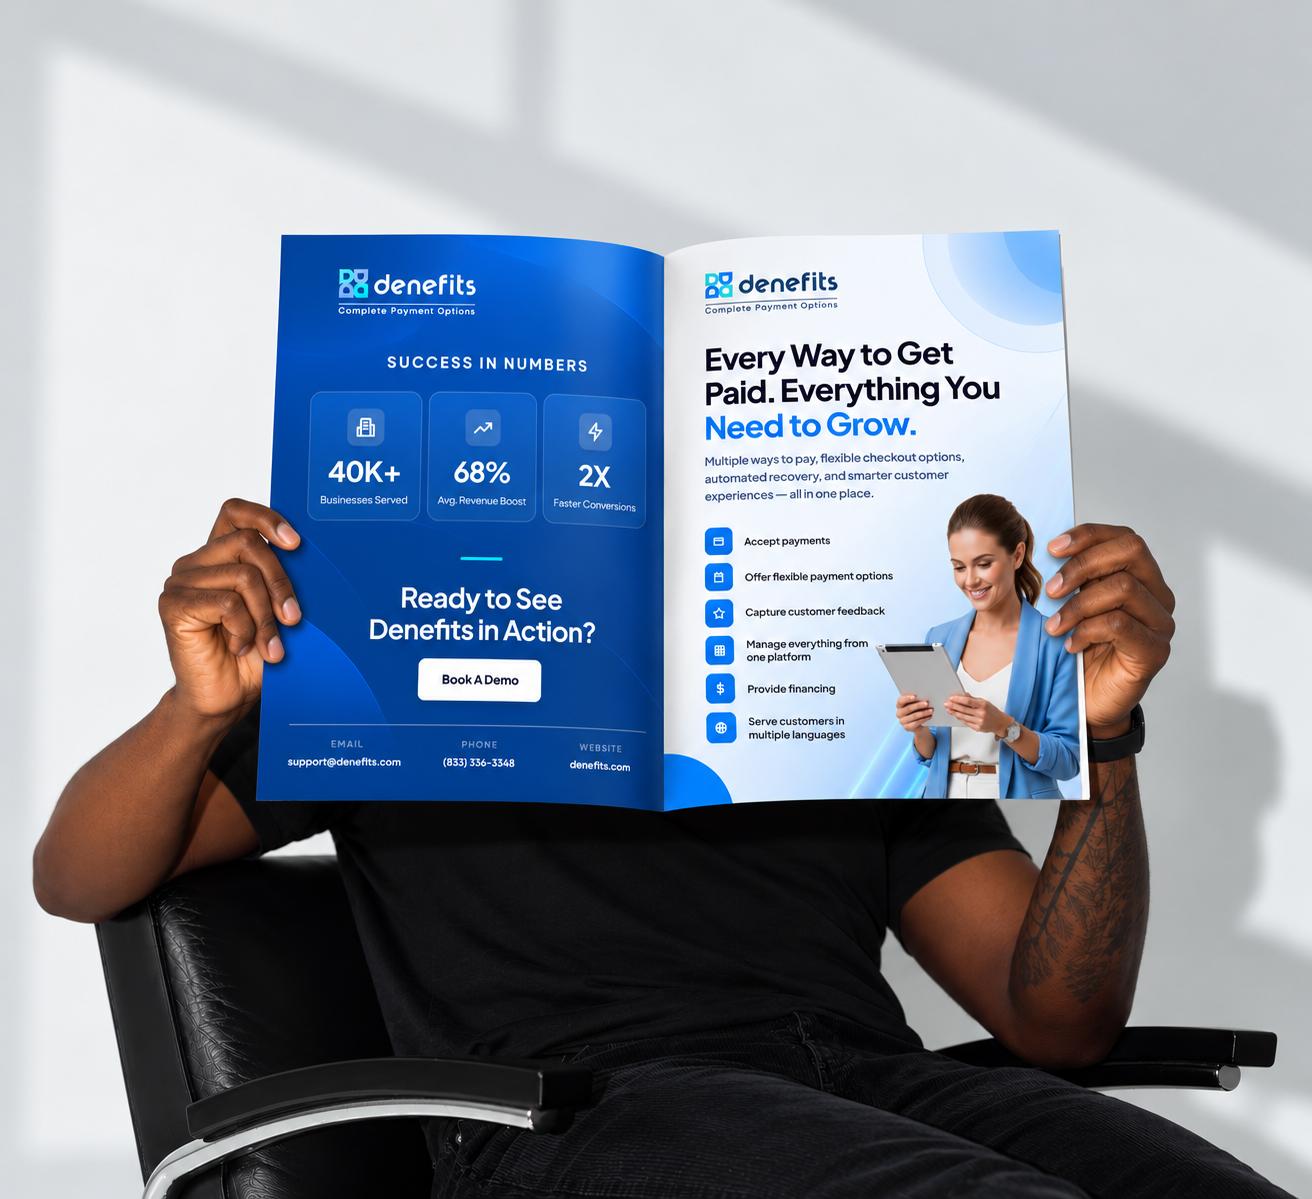
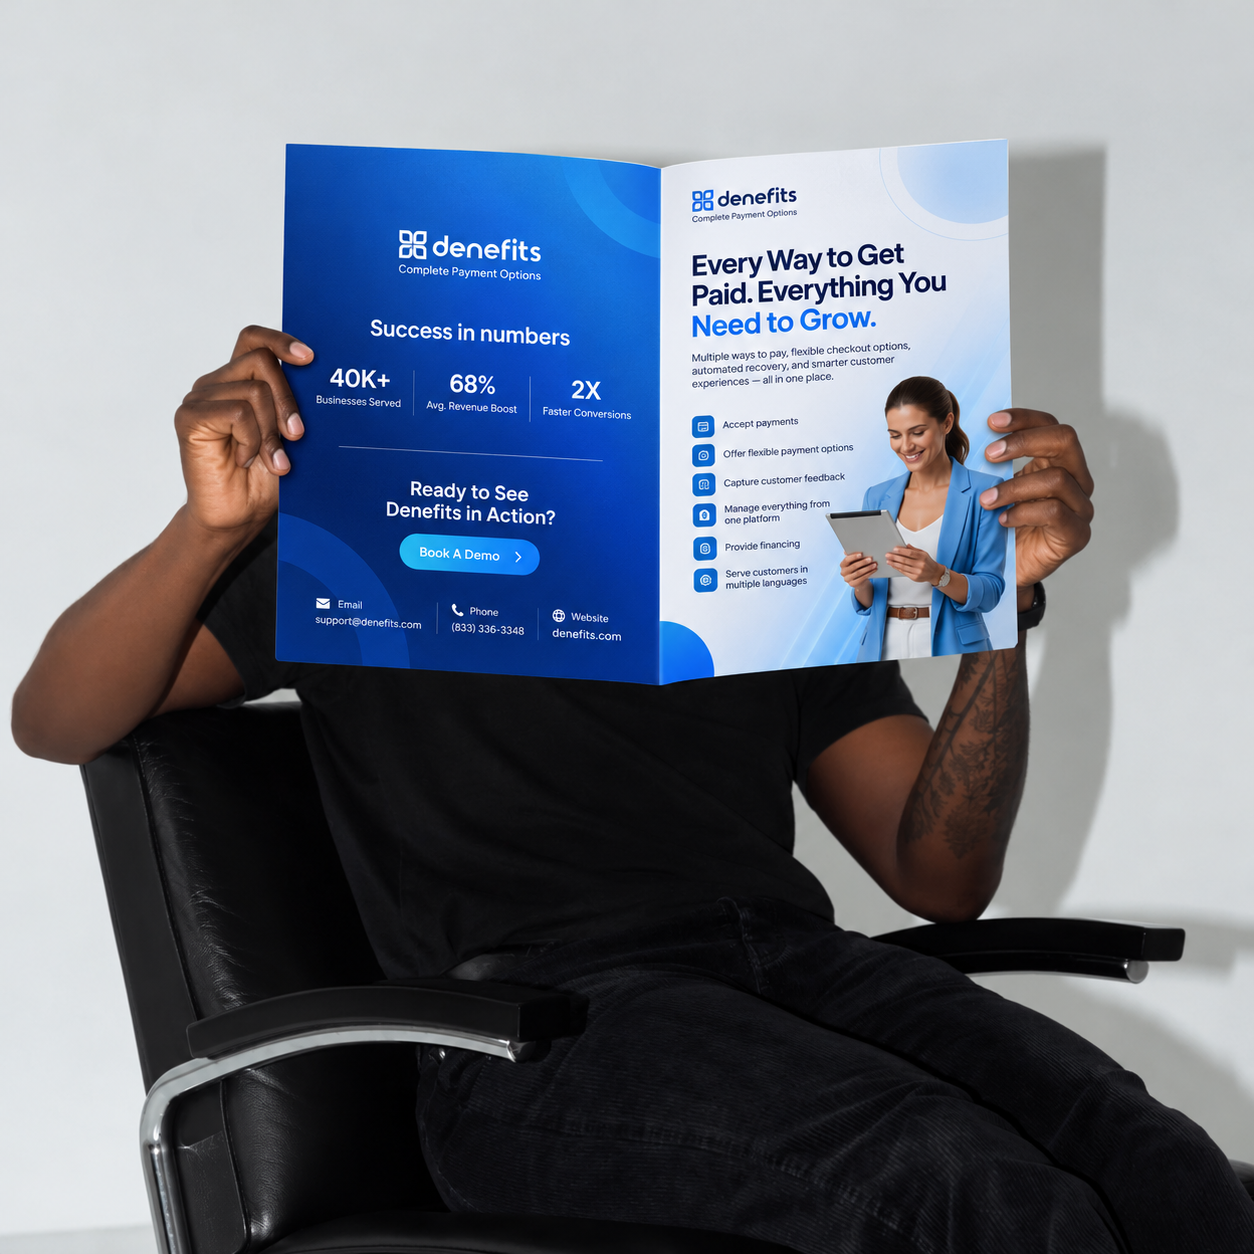
feat: update media assets and layout references for website, print collateral, and packaging portfolios

diff --git a/packaging-3d.html b/packaging-3d.html
@@ -294,11 +294,39 @@ img, video, svg, canvas { max-width: 100%; }
 
 <section data-anim="" data-ovsection="" style="position:relative;z-index:2;max-width:none;margin:0 auto;padding:0 clamp(20px,5vw,80px) clamp(60px,8vw,120px);display:grid;grid-template-columns:minmax(0,320px) minmax(0,1fr);gap:clamp(24px,3vw,54px);align-items:start">
   <div style="order:2;display:flex;flex-direction:column;gap:clamp(10px,1.4vw,18px);min-width:0">
-    <sc-for list="{{ overview }}" as="o" hint-placeholder-count="10">
-      <div style="position: relative; overflow: hidden; border-radius: clamp(10px,1.4vw,18px); background: #1C1817; border: 1px solid #2E2927; height: clamp(340px,46vw,760px); width: 100%">
-        <image-slot id="pk-ov-{{ o.id }}" shape="rect" placeholder="{{ o.label }}" style="width: 100%"></image-slot>
-      </div>
-    </sc-for>
+    <div style="position: relative; overflow: hidden; border-radius: clamp(10px,1.4vw,18px); background: #1C1817; border: 1px solid #2E2927; width: 100%">
+      <img src="./uploads/Packaging/Main Cover.jpg" alt="Main Cover" style="width:100%;height:100%;object-fit:cover;display:block">
+    </div>
+    <div style="position: relative; overflow: hidden; border-radius: clamp(10px,1.4vw,18px); background: #1C1817; border: 1px solid #2E2927; width: 100%">
+      <img src="./uploads/Packaging/Inside Cover.jpg" alt="Inside Cover" style="width:100%;height:100%;object-fit:cover;display:block">
+    </div>
+    <div style="position: relative; overflow: hidden; border-radius: clamp(10px,1.4vw,18px); background: #1C1817; border: 1px solid #2E2927; width: 100%">
+      <img src="./uploads/Packaging/1.jpg" alt="Packaging 1" style="width:100%;height:100%;object-fit:cover;display:block">
+    </div>
+    <div style="position: relative; overflow: hidden; border-radius: clamp(10px,1.4vw,18px); background: #1C1817; border: 1px solid #2E2927; width: 100%">
+      <img src="./uploads/Packaging/2.png" alt="Packaging 2" style="width:100%;height:100%;object-fit:cover;display:block">
+    </div>
+    <div style="position: relative; overflow: hidden; border-radius: clamp(10px,1.4vw,18px); background: #1C1817; border: 1px solid #2E2927; width: 100%">
+      <img src="./uploads/Packaging/3.png" alt="Packaging 3" style="width:100%;height:100%;object-fit:cover;display:block">
+    </div>
+    <div style="position: relative; overflow: hidden; border-radius: clamp(10px,1.4vw,18px); background: #1C1817; border: 1px solid #2E2927; width: 100%">
+      <img src="./uploads/Packaging/4.png" alt="Packaging 4" style="width:100%;height:100%;object-fit:cover;display:block">
+    </div>
+    <div style="position: relative; overflow: hidden; border-radius: clamp(10px,1.4vw,18px); background: #1C1817; border: 1px solid #2E2927; width: 100%">
+      <img src="./uploads/Packaging/5.png" alt="Packaging 5" style="width:100%;height:100%;object-fit:cover;display:block">
+    </div>
+    <div style="position: relative; overflow: hidden; border-radius: clamp(10px,1.4vw,18px); background: #1C1817; border: 1px solid #2E2927; width: 100%">
+      <img src="./uploads/Packaging/6.png" alt="Packaging 6" style="width:100%;height:100%;object-fit:cover;display:block">
+    </div>
+    <div style="position: relative; overflow: hidden; border-radius: clamp(10px,1.4vw,18px); background: #1C1817; border: 1px solid #2E2927; width: 100%">
+      <img src="./uploads/Packaging/7.png" alt="Packaging 7" style="width:100%;height:100%;object-fit:cover;display:block">
+    </div>
+    <div style="position: relative; overflow: hidden; border-radius: clamp(10px,1.4vw,18px); background: #1C1817; border: 1px solid #2E2927; width: 100%">
+      <img src="./uploads/Packaging/8.png" alt="Packaging 8" style="width:100%;height:100%;object-fit:cover;display:block">
+    </div>
+    <div style="position: relative; overflow: hidden; border-radius: clamp(10px,1.4vw,18px); background: #1C1817; border: 1px solid #2E2927; width: 100%">
+      <img src="./uploads/Packaging/9.png" alt="Packaging 9" style="width:100%;height:100%;object-fit:cover;display:block">
+    </div>
   </div>
   <div data-ovnote="" style="order:1;position:sticky;top:96px;display:flex;flex-direction:column;gap:14px">
     <span style="font-size:11px;font-weight:600;letter-spacing:.16em;text-transform:uppercase;color:#FF6B69">Overview</span>
@@ -860,11 +888,7 @@ class Component extends DCLogic {
         { id: 'home', label: 'Home', href: './index.html' },
         { id: 'work', label: 'Work', href: './index.html#work' },
         { id: 'about', label: 'About', href: './index.html#about' }
-      ],
-      overview: Array.from({ length: 10 }, (_, i) => ({
-        id: String(i + 1).padStart(2, '0'),
-        label: 'Overview ' + String(i + 1).padStart(2, '0')
-      }))
+      ]
     };
   }
 }

diff --git a/web-design.html b/web-design.html
@@ -866,16 +866,16 @@ class Component extends DCLogic {
         { id: 'about', label: 'About', href: './index.html#about' }
       ],
       overview: [
-        { id: '01', label: 'Web Design 01', src: './uploads/Website/1.jpg', isVideo: false },
-        { id: '02', label: 'Web Design 02', src: './uploads/Website/2.jpg', isVideo: false },
-        { id: '03', label: 'Web Design 03', src: './uploads/Website/3.jpg', isVideo: false },
+        { id: '01', label: 'Web Design 01', src: './uploads/Website/1.png', isVideo: false },
+        { id: '02', label: 'Web Design 02', src: './uploads/Website/2.png', isVideo: false },
+        { id: '03', label: 'Web Design 03', src: './uploads/Website/3.png', isVideo: false },
         { id: '04', label: 'Web Design 04', src: './uploads/Website/4.webm', isVideo: true },
-        { id: '05', label: 'Web Design 05', src: './uploads/Website/5.jpg', isVideo: false },
+        { id: '05', label: 'Web Design 05', src: './uploads/Website/5.png', isVideo: false },
         { id: '06', label: 'Web Design 06', src: './uploads/Website/6.webm', isVideo: true },
-        { id: '07', label: 'Web Design 07', src: './uploads/Website/7.jpg', isVideo: false },
-        { id: '08', label: 'Web Design 08', src: './uploads/Website/8.jpg', isVideo: false },
-        { id: '09', label: 'Web Design 09', src: './uploads/Website/9.jpg', isVideo: false },
-        { id: '10', label: 'Web Design 10', src: './uploads/Website/10.jpg', isVideo: false },
+        { id: '07', label: 'Web Design 07', src: './uploads/Website/7.png', isVideo: false },
+        { id: '08', label: 'Web Design 08', src: './uploads/Website/8.png', isVideo: false },
+        { id: '09', label: 'Web Design 09', src: './uploads/Website/9.png', isVideo: false },
+        { id: '10', label: 'Web Design 10', src: './uploads/Website/10.png', isVideo: false },
         { id: '11', label: 'Web Design 11', src: './uploads/Website/11.jpg', isVideo: false }
       ]
     };

diff --git a/print-collateral.html b/print-collateral.html
@@ -862,11 +862,11 @@ class Component extends DCLogic {
         { id: 'about', label: 'About', href: './index.html#about' }
       ],
       overview: [
-        { id: '01', label: 'Print Collateral 01', src: './uploads/Print%20collateral/1.jpg' },
+        { id: '01', label: 'Print Collateral 01', src: './uploads/Print%20collateral/1.png' },
         { id: '02', label: 'Print Collateral 02', src: './uploads/Print%20collateral/2.png' },
-        { id: '03', label: 'Print Collateral 03', src: './uploads/Print%20collateral/3.png' },
+        { id: '03', label: 'Print Collateral 03', src: './uploads/Print%20collateral/3.jpg' },
         { id: '04', label: 'Print Collateral 04', src: './uploads/Print%20collateral/4.png' },
-        { id: '05', label: 'Print Collateral 05', src: './uploads/Print%20collateral/5.png' },
+        { id: '05', label: 'Print Collateral 05', src: './uploads/Print%20collateral/5.jpg' },
         { id: '06', label: 'Print Collateral 06', src: './uploads/Print%20collateral/6.png' },
         { id: '07', label: 'Print Collateral 07', src: './uploads/Print%20collateral/7.png' }
       ]
